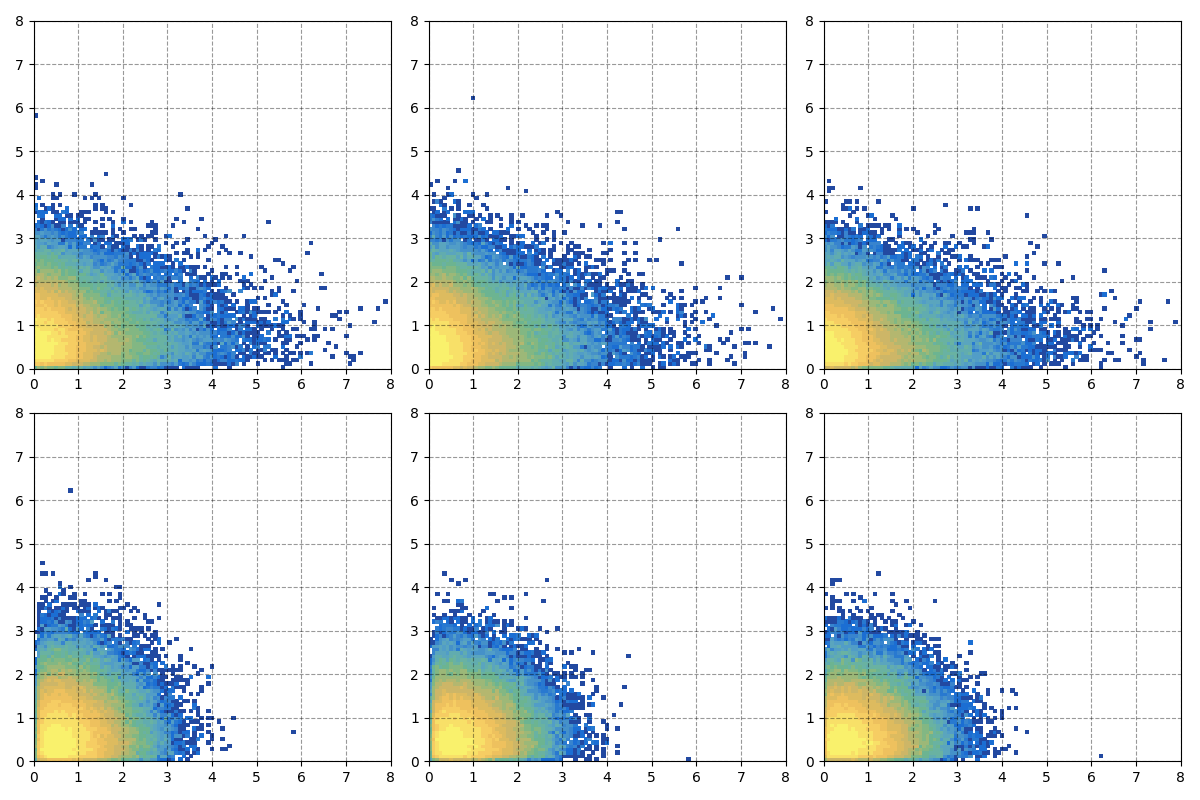
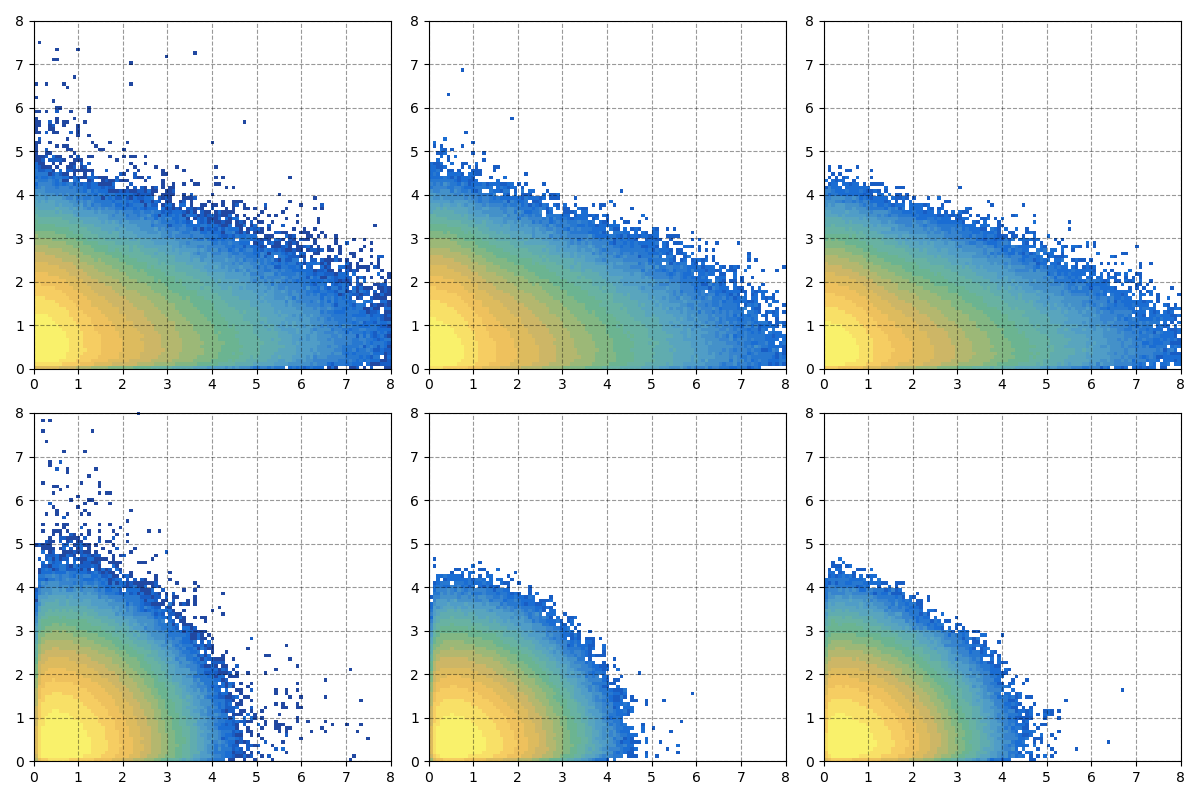
tune once more

diff --git a/Tune_auxiliary_inputs.py b/Tune_auxiliary_inputs.py
@@ -27,25 +27,24 @@ muGAN = muGAN()
 # print(np.load('SHiP_GAN_module/data_files/tuned_aux_parameters.npy'))
 # quit()
 
-# initial_values = [[1.0e+00 1.0e-01 8.0e-01 0.0e+00 0.0e+00 0.0e+00 0.0e+00]
-# 				 [0.0e+00 0.0e+00 0.0e+00 5.0e-04 1.2e+00 1.0e-03 2.7e-01]
-# 				 [0.0e+00 0.0e+00 0.0e+00 1.0e-02 1.3e+00 1.0e-03 1.2e-01]
-# 				 [0.0e+00 0.0e+00 0.0e+00 5.0e-01 8.0e-01 0.0e+00 2.0e-01]]
+# initial_values = [[1.0e+00, 1.0e-01 8.0e-01 0.0e+00 0.0e+00 0.0e+00 0.0e+00]
+# 				 [0.0e+00, 0.0e+00 0.0e+00 5.0e-04 1.2e+00 1.0e-03 2.7e-01]
+# 				 [0.0e+00, 0.0e+00 0.0e+00 0.8e-02 1.3e+00 0.25e-03 1.2e-01]
+# 				 [0.0e+00, 0.0e+00 0.0e+00 5.0e-01 8.0e-01 0.0e+00 2.0e-01]]
 
-# initial_values = np.empty((4,7))
-# initial_values[0] = [ 1, 0.1, 0.8, 0, 0, 0, 0] # x y
-# initial_values[1] = [ 0, 0, 0, 0.0005, 1.2, 1E-3, 0.27] # z 
-# initial_values[2] = [ 0, 0, 0, 0.005, 1.3, 1E-3, 0.12] # px py
-# # initial_values[3] = [ 0, 0, 0, 0.003, 1.1, 0, 0.2] # pz
-# initial_values[3] = [ 0, 0, 0, 0.5, 0.8, 0, 0.2] # pz
+initial_values = np.empty((4,7))
+initial_values[0] = [ 1, 0.1, 0.8, 0, 0, 0, 0] # x y
+initial_values[1] = [ 0, 0, 0, 0.0005, 1.2, 1E-3, 0.27] # z 
+initial_values[2] = [ 0, 0, 0, 0.008, 1.3, 0.00025, 0.12] # px py
+initial_values[3] = [ 0, 0, 0, 0.5, 0.8, 0, 0.2] # pz
 
 
-# muGAN.tune(size=int(1E5), 
+# muGAN.tune(size=int(1E5), initial_values=initial_values,
 # 	output_folder='Tuning_results',
 # 	training_data_location='/Users/am13743/Desktop/Data_for_GAN_paper_plots/real_data.npy')
 
 
-muGAN.tune(size=int(1E7), 
+muGAN.tune(size=int(1E7), initial_values=initial_values,
 	output_folder='Tuning_results',
 	training_data_location='/mnt/storage/scratch/am13743/real_data.npy')
 

diff --git a/SHiP_GAN_module/muGAN.py b/SHiP_GAN_module/muGAN.py
@@ -98,6 +98,10 @@ class muGAN:
 		cmp_root.set_under('w')
 		self.cmp_root = cmp_root
 		self.min_max_plot = np.load(os.path.dirname(os.path.realpath(__file__))+'/data_files/min_max_plot.npy')
+		self.min_max_plot[3][0] = -5.5
+		self.min_max_plot[3][1] = 5.5
+		self.min_max_plot[4][0] = -5.5
+		self.min_max_plot[4][1] = 5.5
 		self.axis_titles = ['StartX (cm)', 'StartY (cm)', 'StartZ (cm)', 'Px (GeV)', 'Py (GeV)', 'Pz (GeV)']
 		return self.min_max_plot, self.cmp_root, self.axis_titles
 
@@ -209,7 +213,7 @@ class muGAN:
 		where_array = where_array[0][:int(shape_i)]
 
 
-		aux_values[where_array,2] = aux_values[where_array,2]*0.8
+		aux_values[where_array,2] = aux_values[where_array,2]*0.75
 
 
 
@@ -768,12 +772,6 @@ class muGAN:
 		''' Complete analysis of a set of tuning parameters '''
 
 		self.define_plotting_tools()
-
-		self.min_max_plot[3][0] = -5.5
-		self.min_max_plot[3][1] = 5.5
-
-		self.min_max_plot[4][0] = -5.5
-		self.min_max_plot[4][1] = 5.5
 
 		X_train = np.load(training_data_location)
 		if size > np.shape(X_train)[0]:
